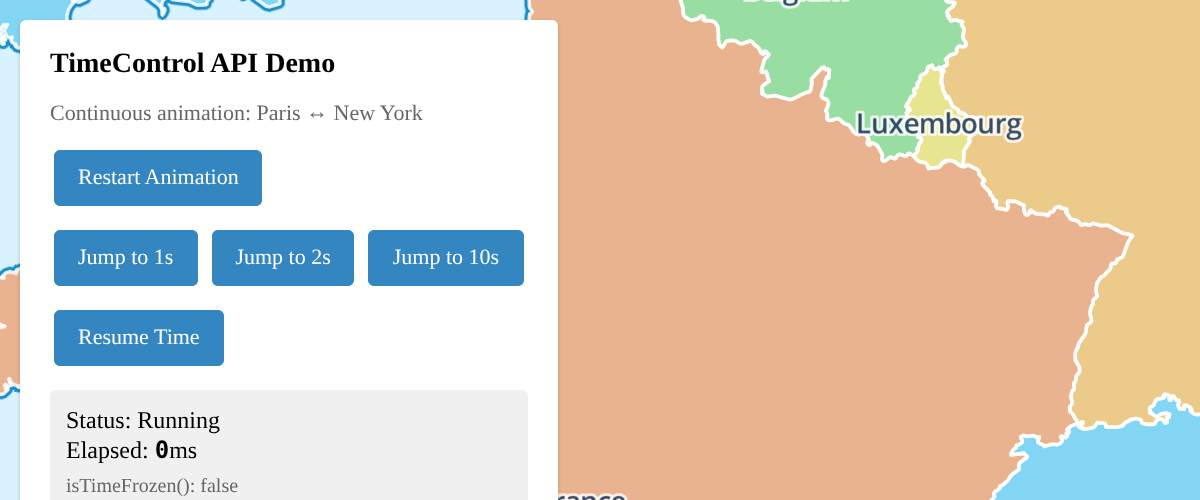
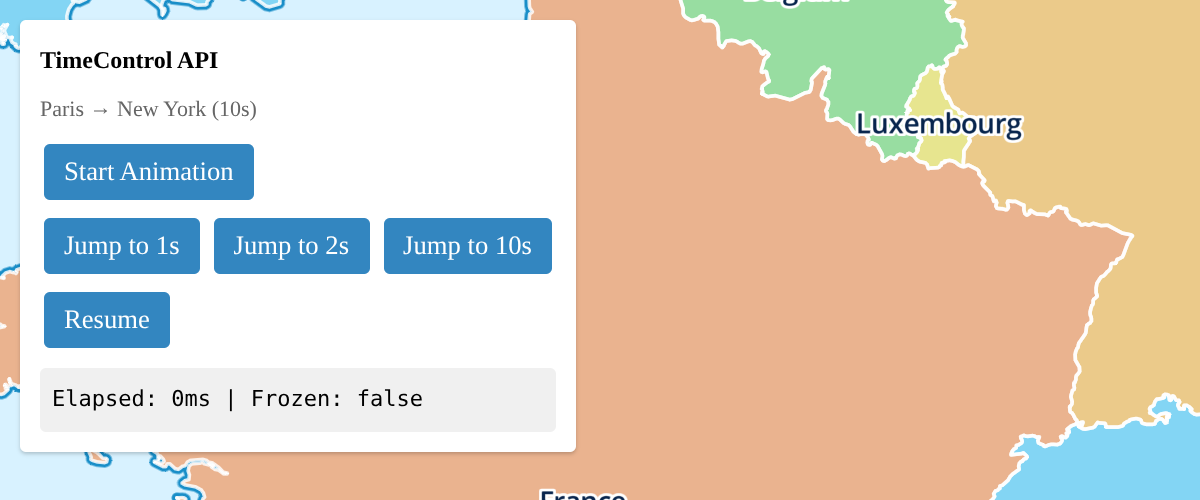
Simplify timeControl example
Based on feedback from @HarelM to reduce code complexity.

Changes: (256→133 lines)
- Simplified CSS and UI
- Added Start button (no auto-start)
- Changed Jump buttons to 1s, 2s, 10s
- Reduced verbose comments
- Condensed info display to single line
- Elapsed counter only starts when animation begins

The example is now more concise while keeping all functionality.

diff --git a/test/examples/control-animation-timing.html b/test/examples/control-animation-timing.html
@@ -10,247 +10,124 @@
     <style>
         body { margin: 0; padding: 0; }
         html, body, #map { height: 100%; }
+        .controls {
+            position: absolute;
+            top: 10px;
+            left: 10px;
+            background: white;
+            padding: 10px;
+            border-radius: 3px;
+            box-shadow: 0 1px 2px rgba(0, 0, 0, 0.2);
+            font: 12px/20px 'Helvetica Neue', Arial, Helvetica, sans-serif;
+        }
+        .controls button {
+            background: #3386c0;
+            color: white;
+            border: none;
+            padding: 6px 10px;
+            margin: 2px;
+            cursor: pointer;
+            border-radius: 3px;
+        }
+        .controls button:hover { background: #4ea0da; }
+        .controls button:disabled {
+            background: #ccc;
+            cursor: not-allowed;
+        }
+        #info {
+            margin-top: 8px;
+            padding: 6px;
+            background: #f0f0f0;
+            border-radius: 3px;
+            font-family: monospace;
+            font-size: 11px;
+        }
     </style>
 </head>
 <body>
-<style>
-    .control-panel {
-        position: absolute;
-        top: 10px;
-        left: 10px;
-        background: white;
-        padding: 15px;
-        border-radius: 3px;
-        box-shadow: 0 1px 2px rgba(0, 0, 0, 0.2);
-        font-family: 'Helvetica Neue', Arial, Helvetica, sans-serif;
-        font-size: 12px;
-        z-index: 1;
-    }
-
-    .control-panel h3 {
-        margin: 0 0 10px 0;
-        font-size: 14px;
-    }
-
-    .control-panel button {
-        background-color: #3386c0;
-        color: #fff;
-        border: none;
-        padding: 8px 12px;
-        margin: 2px;
-        cursor: pointer;
-        border-radius: 3px;
-        font-size: 11px;
-    }
-
-    .control-panel button:hover {
-        background-color: #4ea0da;
-    }
-
-    .control-panel button:disabled {
-        background-color: #ccc;
-        cursor: not-allowed;
-    }
-
-    .status {
-        margin-top: 10px;
-        padding: 8px;
-        background-color: #f0f0f0;
-        border-radius: 3px;
-    }
-
-    .status.frozen {
-        background-color: #ffe0e0;
-    }
-
-    .time-display {
-        font-family: monospace;
-        font-weight: bold;
-    }
-</style>
-
 <div id="map"></div>
-
-<div class="control-panel">
-    <h3>TimeControl API Demo</h3>
-    <div style="margin-bottom: 10px; font-size: 11px; color: #666;">
-        Continuous animation: Paris ↔ New York
-    </div>
+<div class="controls">
+    <div><strong>TimeControl API</strong></div>
+    <div style="margin: 5px 0; font-size: 11px; color: #666;">Paris → New York (10s)</div>
     <div>
-        <button id="restart-btn">Restart Animation</button>
+        <button onclick="start()" id="start-btn">Start Animation</button>
     </div>
-    <div style="margin-top: 8px;">
-        <button id="jump-1s">Jump to 1s</button>
-        <button id="jump-2s">Jump to 2s</button>
-        <button id="jump-10s">Jump to 10s</button>
+    <div style="margin-top: 5px;">
+        <button onclick="jumpTo(1000)">Jump to 1s</button>
+        <button onclick="jumpTo(2000)">Jump to 2s</button>
+        <button onclick="jumpTo(10000)">Jump to 10s</button>
     </div>
-    <div style="margin-top: 8px;">
-        <button id="resume-btn">Resume Time</button>
+    <div style="margin-top: 5px;">
+        <button onclick="resume()">Resume</button>
     </div>
-    <div class="status" id="status">
-        <div>Status: <span id="time-status">Running</span></div>
-        <div>Elapsed: <span class="time-display" id="time-display">0</span>ms</div>
-        <div style="font-size: 10px; margin-top: 5px; color: #666;">
-            isTimeFrozen(): <span id="frozen-state">false</span>
-        </div>
-    </div>
+    <div id="info">Elapsed: <span id="time">0</span>ms | Frozen: <span id="frozen">false</span></div>
 </div>
 
 <script>
     const map = new maplibregl.Map({
         container: 'map',
         style: 'https://demotiles.maplibre.org/style.json',
-        center: [2.3522, 48.8566], // Start at Paris
+        center: [2.3522, 48.8566],
         zoom: 5
     });
 
-    let timeUpdateInterval = null;
-    let animationStartTime = null;
+    let startTime;
 
-    // Update time display continuously
-    function startTimeDisplay() {
-        if (timeUpdateInterval) return;
-
-        timeUpdateInterval = setInterval(() => {
-            const currentTime = maplibregl.now();
-            const elapsed = animationStartTime ? currentTime - animationStartTime : 0;
-            document.getElementById('time-display').textContent =
-                Math.round(elapsed);
-            document.getElementById('frozen-state').textContent =
-                maplibregl.isTimeFrozen().toString();
-
-            // Update status text
-            if (maplibregl.isTimeFrozen()) {
-                document.getElementById('time-status').textContent = 'Frozen';
-                document.getElementById('status').classList.add('frozen');
-            } else {
-                document.getElementById('time-status').textContent = 'Running';
-                document.getElementById('status').classList.remove('frozen');
-            }
-        }, 50);
-    }
-
-    let isAnimating = false;
-
-    // Animate between Paris and New York continuously
-    function animateLoop() {
-        if (!isAnimating) return;
-
-        // Fly to New York
+    function animate() {
         map.flyTo({
             center: [-74.006, 40.7128],
             zoom: 10,
             duration: 10000
         });
-
-        // After 10 seconds, fly back to Paris
         setTimeout(() => {
-            if (!isAnimating) return;
             map.flyTo({
                 center: [2.3522, 48.8566],
                 zoom: 5,
                 duration: 10000
             });
-
-            // After another 10 seconds, restart the loop
-            setTimeout(() => {
-                animateLoop();
-            }, 10000);
+            setTimeout(animate, 10000);
         }, 10000);
     }
 
-    // Start the animation
-    function startAnimation() {
-        // If time is frozen, restore it first
-        if (maplibregl.isTimeFrozen()) {
-            maplibregl.restoreNow();
-        }
+    function jumpTo(ms) {
+        map.stop();
+        map.jumpTo({ center: [2.3522, 48.8566], zoom: 5 });
 
-        // Reset to Paris
-        map.jumpTo({
-            center: [2.3522, 48.8566],
-            zoom: 5
-        });
+        if (maplibregl.isTimeFrozen()) maplibregl.restoreNow();
 
-        // Store animation start time
-        animationStartTime = maplibregl.now();
-
-        if (!timeUpdateInterval) {
-            startTimeDisplay();
-        }
-
-        // Start continuous animation loop
-        isAnimating = true;
-        animateLoop();
-    }
-
-    // Auto-start animation when map loads
-    map.on('load', () => {
-        startAnimation();
-    });
-
-    // Helper function to jump to a specific time in the animation
-    function jumpToTime(milliseconds) {
-        // Stop the loop to avoid interference
-        isAnimating = false;
-
-        // Restore time first to ensure clean state
-        if (maplibregl.isTimeFrozen()) {
-            maplibregl.restoreNow();
-        }
-
-        // Reset to Paris
-        map.jumpTo({
-            center: [2.3522, 48.8566],
-            zoom: 5
-        });
-
-        // Store new animation start time
-        animationStartTime = maplibregl.now();
-
-        // Start the animation to New York
+        startTime = maplibregl.now();
         map.flyTo({
             center: [-74.006, 40.7128],
             zoom: 10,
             duration: 10000
         });
 
-        // Immediately freeze time at the desired moment
-        maplibregl.setNow(animationStartTime + milliseconds);
+        maplibregl.setNow(startTime + ms);
     }
 
-    // Resume button - restores real time and restarts continuous animation
-    document.getElementById('resume-btn').addEventListener('click', () => {
-        startAnimation();
-    });
+    function start() {
+        map.jumpTo({ center: [2.3522, 48.8566], zoom: 5 });
+        if (maplibregl.isTimeFrozen()) maplibregl.restoreNow();
+        startTime = maplibregl.now();
+        animate();
+        document.getElementById('start-btn').disabled = true;
+    }
 
-    // Jump to 1s - freezes time at 1 second into animation
-    document.getElementById('jump-1s').addEventListener('click', () => {
-        jumpToTime(1000);
-    });
+    function resume() {
+        if (maplibregl.isTimeFrozen()) maplibregl.restoreNow();
+        map.jumpTo({ center: [2.3522, 48.8566], zoom: 5 });
+        startTime = maplibregl.now();
+        animate();
+    }
 
-    // Jump to 2s - freezes time at 2 seconds into animation
-    document.getElementById('jump-2s').addEventListener('click', () => {
-        jumpToTime(2000);
-    });
-
-    // Jump to 10s - freezes time at end of animation
-    document.getElementById('jump-10s').addEventListener('click', () => {
-        jumpToTime(10000);
-    });
-
-    // Restart animation button
-    document.getElementById('restart-btn').addEventListener('click', () => {
-        startAnimation();
-    });
-
-    // Clean up on page unload
-    window.addEventListener('beforeunload', () => {
-        if (timeUpdateInterval) clearInterval(timeUpdateInterval);
-        if (maplibregl.isTimeFrozen()) {
-            maplibregl.restoreNow();
+    // Update display
+    setInterval(() => {
+        if (startTime) {
+            const elapsed = maplibregl.now() - startTime;
+            document.getElementById('time').textContent = Math.round(elapsed);
         }
-    });
+        document.getElementById('frozen').textContent = maplibregl.isTimeFrozen();
+    }, 50);
 </script>
 </body>
 </html>
